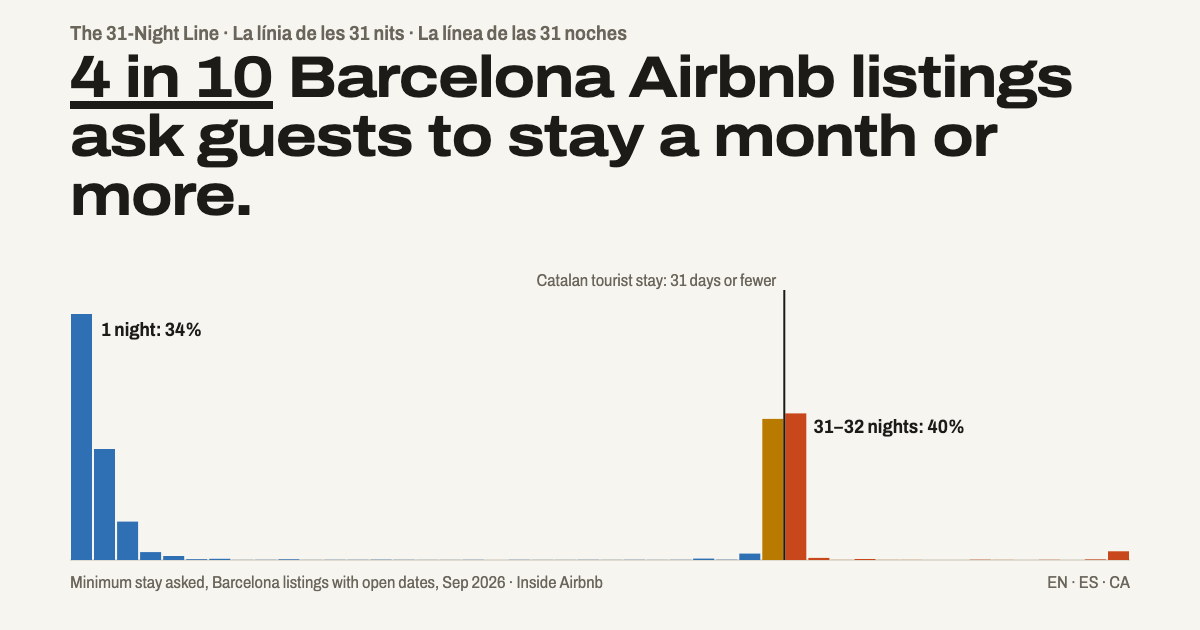
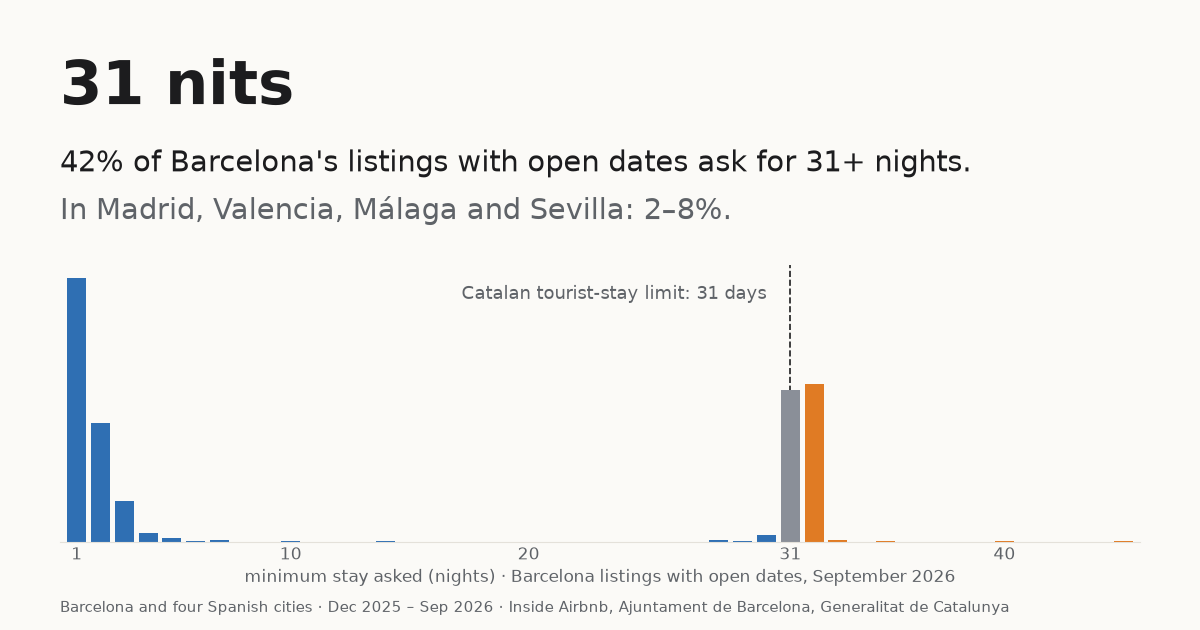
rename to 31 nits: titles, readme, social image, site url

Changed region(s): [[0.0308, 0.0302, 0.8942, 0.3619], [0.0308, 0.4222, 0.9558, 0.9952], [0.8017, 0.9349, 0.8325, 0.9952]]

diff --git a/site/src/i18n.ts b/site/src/i18n.ts
@@ -267,9 +267,9 @@ interface Strings {
 }
 
 const en: Strings = {
-  htmlTitle: "The 31-Night Line: Barcelona's Airbnb listings and the housing rules",
+  htmlTitle: "31 nits: Barcelona's Airbnb listings and the housing rules",
   skip: "Skip to the content",
-  banner: (from, to) => `<b>The 31-Night Line</b> · Airbnb in Barcelona and four Spanish cities, ${from} – ${to}`,
+  banner: (from, to) => `<b>31 nits</b> · Airbnb in Barcelona and four Spanish cities, ${from} – ${to}`,
   how: "How is this made?",
   scroll: "Scroll ↓",
   eyebrow: "Short-term rentals · housing rules · open data",
@@ -458,9 +458,9 @@ const en: Strings = {
 };
 
 const es: Strings = {
-  htmlTitle: "La línea de las 31 noches: los anuncios de Airbnb en Barcelona y las normas de vivienda",
+  htmlTitle: "31 nits: los anuncios de Airbnb en Barcelona y las normas de vivienda",
   skip: "Saltar al contenido",
-  banner: (from, to) => `<b>La línea de las 31 noches</b> · Airbnb en Barcelona y otras cuatro ciudades españolas, ${from} – ${to}`,
+  banner: (from, to) => `<b>31 nits</b> · Airbnb en Barcelona y otras cuatro ciudades españolas, ${from} – ${to}`,
   how: "¿Cómo se ha hecho?",
   scroll: "Desliza ↓",
   eyebrow: "Alquiler de corta estancia · normas de vivienda · datos abiertos",
@@ -649,9 +649,9 @@ const es: Strings = {
 };
 
 const ca: Strings = {
-  htmlTitle: "La línia de les 31 nits: els anuncis d'Airbnb a Barcelona i les normes d'habitatge",
+  htmlTitle: "31 nits: els anuncis d'Airbnb a Barcelona i les normes d'habitatge",
   skip: "Salta al contingut",
-  banner: (from, to) => `<b>La línia de les 31 nits</b> · Airbnb a Barcelona i quatre ciutats espanyoles més, ${from} – ${to}`,
+  banner: (from, to) => `<b>31 nits</b> · Airbnb a Barcelona i quatre ciutats espanyoles més, ${from} – ${to}`,
   how: "Com s'ha fet?",
   scroll: "Llisca ↓",
   eyebrow: "Lloguer de curta durada · normes d'habitatge · dades obertes",

diff --git a/site/index.html b/site/index.html
@@ -3,7 +3,7 @@
   <head>
     <meta charset="UTF-8" />
     <meta name="viewport" content="width=device-width, initial-scale=1" />
-    <title>The 31-Night Line: Barcelona's Airbnb listings and the housing rules</title>
+    <title>31 nits: Barcelona's Airbnb listings and the housing rules</title>
     <meta
       name="description"
       content="Barcelona's Airbnb listings split in two: one night, or a month and more. An atlas of four quarterly snapshots, the tourist-flat register and official rents, in English, Spanish and Catalan."
@@ -19,7 +19,7 @@
     <!-- Social previews (LinkedIn, Open Graph). __SITE_URL__ is filled in at build time (vite.config.ts). -->
     <meta property="og:type" content="article" />
     <meta property="og:url" content="__SITE_URL__" />
-    <meta property="og:title" content="The 31-Night Line · La línia de les 31 nits" />
+    <meta property="og:title" content="31 nits · Airbnb in Barcelona and the housing rules" />
     <meta
       property="og:description"
       content="41.7% of Barcelona's Airbnb listings with open dates ask for 31 nights or more, against 2–8% in four other Spanish cities. In English, Spanish and Catalan."
@@ -36,7 +36,7 @@
   <body>
     <a class="skip-link" id="skip" href="#main">Skip to the content</a>
     <div class="banner" id="banner">
-      <span class="note" id="banner-note"><b>The 31-Night Line</b></span>
+      <span class="note" id="banner-note"><b>31 nits</b></span>
       <nav class="lang" id="lang" aria-label="Language"></nav>
     </div>
     <div id="tip" role="status" aria-live="polite"></div>

diff --git a/site/vite.config.ts b/site/vite.config.ts
@@ -3,7 +3,7 @@ import { defineConfig, type Plugin } from "vite";
 // Social previews (LinkedIn, Open Graph) need absolute URLs, while the page
 // itself uses relative paths. CI passes the real Pages URL in SITE_URL;
 // locally the expected project URL is used.
-const DEFAULT_SITE_URL = "https://renzorico.github.io/spain-housing-str-analysis/";
+const DEFAULT_SITE_URL = "https://renzorico.github.io/31-nits/";
 const SITE_URL_PLACEHOLDER = /__SITE_URL__/g;
 
 function siteUrl(): string {

diff --git a/site/src/main.ts b/site/src/main.ts
@@ -28,7 +28,7 @@ import { byId, dayMonthYear, formatInt, monthYear, pct, redrawOnResize, safely, 
 import { initWall } from "./wall";
 
 const LATEST_ROUND = "Sep 2026";
-const REPOSITORY_URL = "https://github.com/renzorico/spain-housing-str-analysis";
+const REPOSITORY_URL = "https://github.com/renzorico/31-nits";
 
 /** Static text in index.html, in the reader's language. */
 function renderChrome(meta: Meta): void {

diff --git a/site/src/styles.css b/site/src/styles.css
@@ -1,4 +1,4 @@
-/* The 31-Night Line: a light, map-led atlas of Barcelona's short-term rentals.
+/* 31 nits: a light, map-led atlas of Barcelona's short-term rentals.
    One family (Archivo, variable width): wide for titles, normal for text,
    narrow for chart and map labels. Normal page scroll, no snapping. */
 :root {

diff --git a/scripts/download_data.py b/scripts/download_data.py
@@ -16,7 +16,7 @@ sys.path.append(str(Path(__file__).resolve().parents[1]))
 
 from src import sources as src
 
-USER_AGENT = "spain-housing-str-analysis (research; contact via GitHub)"
+USER_AGENT = "31-nits (research; contact via GitHub)"
 TIMEOUT_SECONDS = 120
 
 

diff --git a/scripts/make_social_image.py b/scripts/make_social_image.py
@@ -52,7 +52,7 @@ def main() -> None:
     fig.text(
         0.05,
         0.86,
-        "The 31-night line",
+        "31 nits",
         fontsize=44,
         fontweight="bold",
         color=TEXT,

diff --git a/PRODUCT.md b/PRODUCT.md
@@ -23,7 +23,7 @@ A data story that publishes its own corrections and limits. Every percentage has
 ## Operating Context
 
 - Static site (Vite + strict TypeScript + Observable Plot + MapLibre) built from JSON exported by a Python/pandas pipeline in `src/` and `scripts/export_site_data.py`; notebooks 01-04 hold the full analysis. Site text that quotes numbers computes them from the exported data.
-- Live at https://renzorico.github.io/spain-housing-str-analysis/ (GitHub Pages). The owner pushes; the agent commits small.
+- Live at https://renzorico.github.io/31-nits/ (GitHub Pages). The owner pushes; the agent commits small.
 - Independent audits are kept in `audits/` (latest UX audit 2026-11-03 flagged length and density as the top issue).
 
 ## Capabilities and Constraints
@@ -36,7 +36,7 @@ A data story that publishes its own corrections and limits. Every percentage has
 
 ## Brand Commitments
 
-- Name: "The 31-Night Line".
+- Name: "31 nits" (Catalan for "31 nights"; used unchanged in English and Spanish).
 - Strict neutrality (binding): describe rules as policy levers (what it says / what the data shows / what it cannot show). Never name parties or give verdicts. Compare across all cities, never one hand-picked comparison.
 
 ## Evidence on Hand

diff --git a/README.md b/README.md
@@ -1,11 +1,11 @@
-# The 31-Night Line
+# 31 nits
 
 **Short-term rentals and housing rules in Barcelona and four Spanish cities:
 what the data shows, and what it cannot show.**
 
-**Live site:** https://renzorico.github.io/spain-housing-str-analysis/
+**Live site:** https://renzorico.github.io/31-nits/
 
-![The 31-night line: Barcelona Airbnb listings by minimum stay](site/public/og-image.png)
+![31 nits: Barcelona Airbnb listings by minimum stay](site/public/og-image.png)
 
 Four quarterly snapshots of Airbnb listings (Dec 2025 – Sep 2026) for
 Barcelona, plus Madrid, Valencia, Málaga and Sevilla, set against

diff --git a/DESIGN.md b/DESIGN.md
@@ -1,4 +1,4 @@
-# Design System: The 31-Night Line
+# Design System: 31 nits
 
 A light, map-led atlas of Barcelona's short-term rentals (chosen after the
 UX audit of 2026-11-12: the earlier dark scroll story read as a tech
